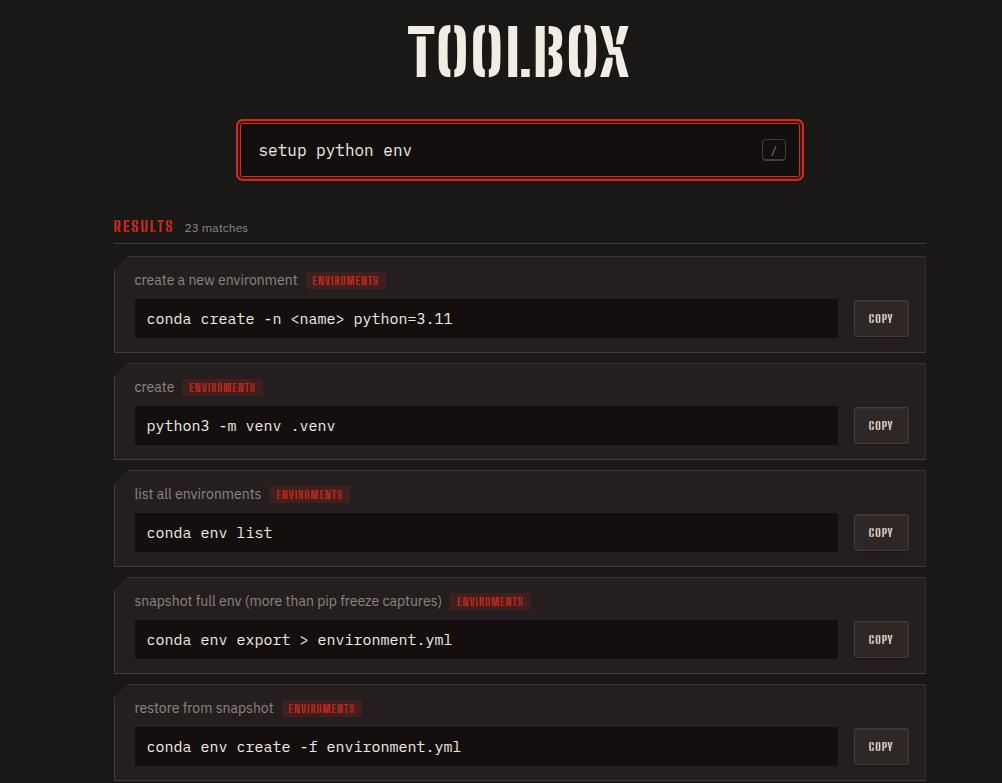
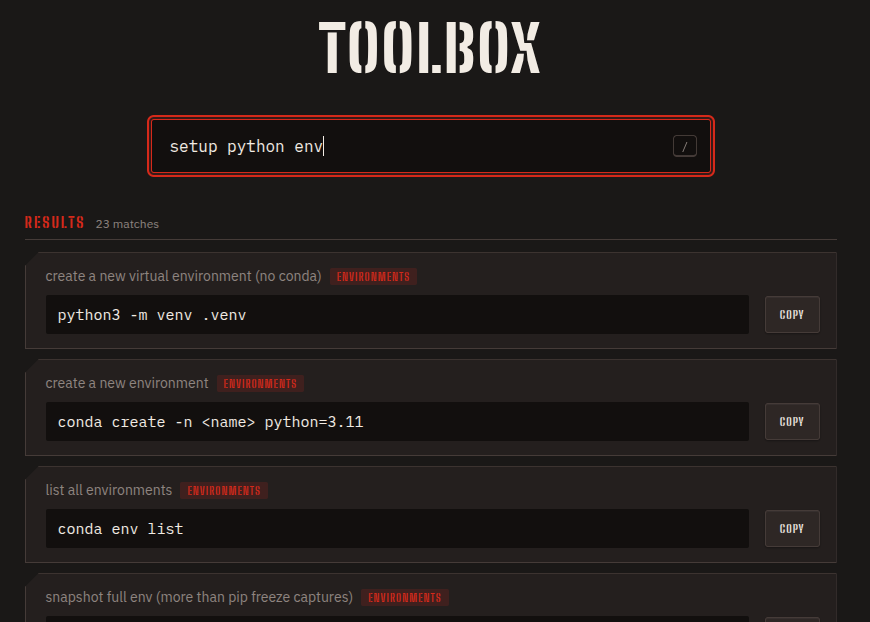
Chore: update readme

diff --git a/README.md b/README.md
@@ -1,4 +1,11 @@
-# toolbox
+<h1 align="center">toolbox</h1>
+
+<p align="center">
+  <!-- <a href="https://github.com/JOTELLECHEA/toolbox/releases"><img src="https://img.shields.io/github/v/release/JOTELLECHEA/toolbox" alt="Release"></a> -->
+  <a href="LICENSE"><img src="https://img.shields.io/github/license/JOTELLECHEA/toolbox" alt="License"></a>
+  <img src="https://img.shields.io/badge/python-3-blue" alt="Python 3">
+</p>
+
 
 A personal reference of terminal commands and code snippets — the ones used
 often enough to need, but not often enough to remember. Searchable through a
@@ -8,6 +15,13 @@ This is my own setup, not a generic template — the `.md` files are my
 commands. The tool itself doesn't assume anything about what's in them
 though, so if you want something like this, fork it and swap in your own
 content.
+
+<table>
+  <tr>
+    <td><img src="docs/setup_python_env.png" alt="Searching &ldquo;setup python env&rdquo;"></td>
+    <td><img src="docs/line_plot.png" alt="Searching &ldquo;line plot&rdquo;, showing a syntax-highlighted snippet"></td>
+  </tr>
+</table>
 
 ## Getting started
 
